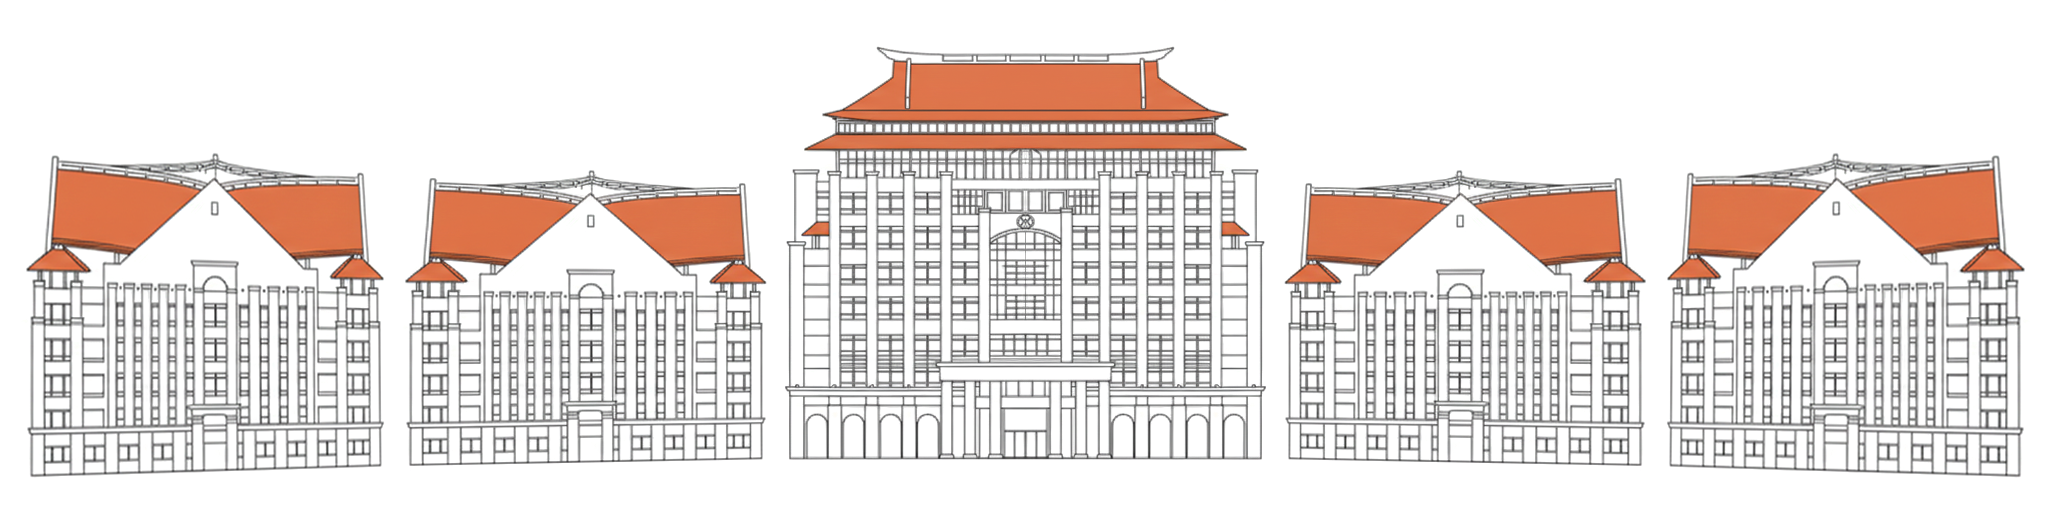
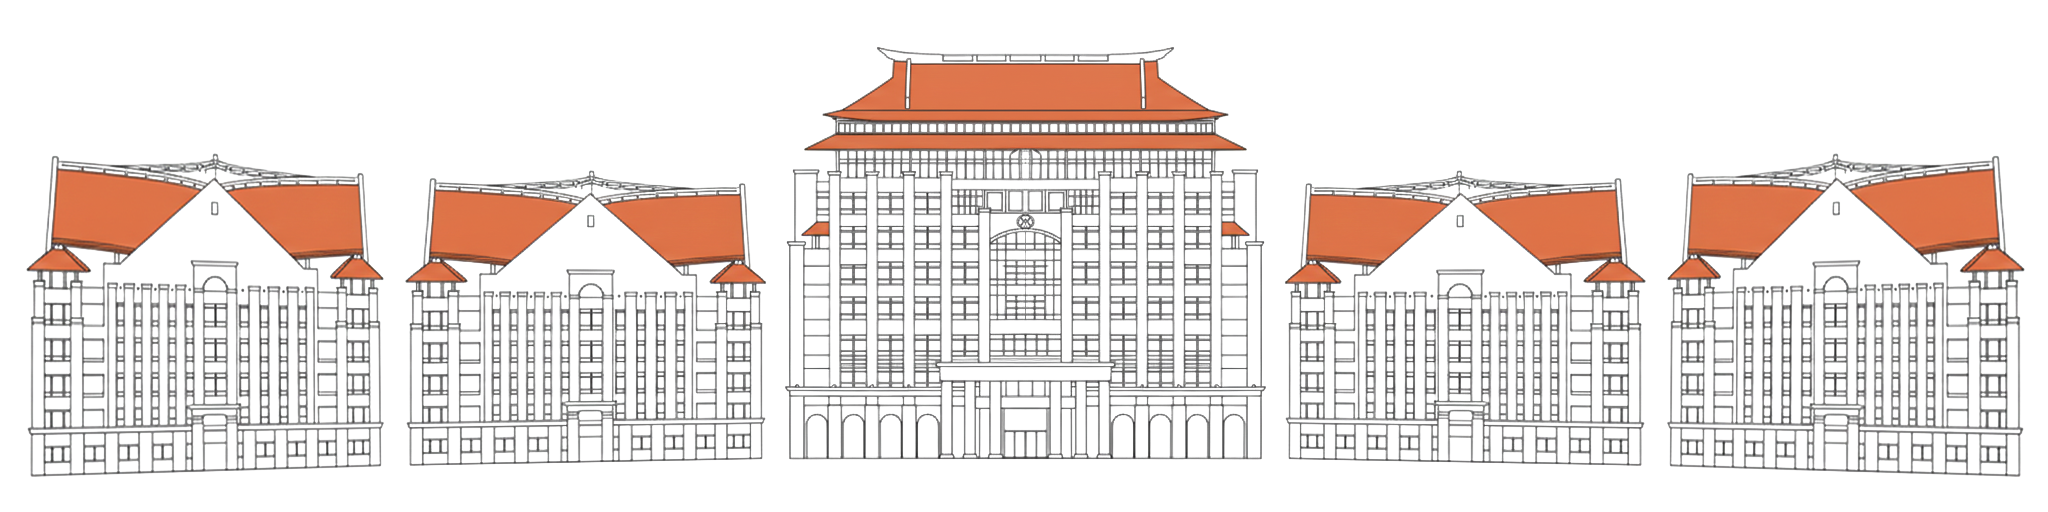
MkDocs update navigation structure and add preview for cpp file

diff --git a/gen_cpp_pages.py b/gen_cpp_pages.py
@@ -1,0 +1,89 @@
+import mkdocs_gen_files
+from pathlib import Path
+from urllib.parse import quote
+from collections import defaultdict
+import zipfile
+import io
+
+SCAN_DIRS = [
+    Path("docs/note"),
+    Path("docs/template"),
+]
+
+
+def build_tree(file_list, base):
+    tree = defaultdict(list)
+    loose = []
+    for f in file_list:
+        rel = f.relative_to(base)
+        if len(rel.parts) == 1:
+            loose.append(f)
+        else:
+            subdir = rel.parts[0]
+            tree[subdir].append(f)
+    return tree, loose
+
+
+def write_tree(f, file_list, base, author_base, depth=0):
+    tree, loose = build_tree(file_list, base)
+    for cpp_file in loose:
+        rel = cpp_file.relative_to(author_base)
+        md_rel = str(rel.with_suffix(".md")).replace("\\", "/")
+        f.write(f"- [{cpp_file.stem}]({md_rel})\n")
+    for subdir, sub_files in sorted(tree.items()):
+        heading = "#" * (depth + 2)
+        f.write(f"\n{heading} {subdir}\n\n")
+        write_tree(f, sub_files, base / subdir, author_base, depth + 1)
+
+
+for scan_root in SCAN_DIRS:
+    section = scan_root.name
+
+    authors = defaultdict(list)
+    for cpp_file in sorted(scan_root.rglob("*.cpp")):
+        rel = cpp_file.relative_to(scan_root)
+        if len(rel.parts) < 2:
+            continue
+        author = rel.parts[0]
+        authors[author].append(cpp_file)
+
+    for author, files in sorted(authors.items()):
+        for cpp_file in files:
+            rel = cpp_file.relative_to(scan_root)
+            md_path = Path(section) / rel.with_suffix(".md")
+            title = str(rel.with_suffix("")).replace("\\", "/")
+            content = cpp_file.read_text(encoding="utf-8")
+            cpp_filename = cpp_file.name
+
+            download_path = Path(section) / rel
+            with mkdocs_gen_files.open(download_path, "wb") as f:
+                f.write(cpp_file.read_bytes())
+
+            cpp_url = f"/{section}/" + "/".join(quote(p) for p in rel.parts)
+            with mkdocs_gen_files.open(md_path, "w", encoding="utf-8") as f:
+                f.write(f"# {title}\n\n")
+                f.write(f'<a href="{cpp_url}" download="{cpp_filename}" class="md-button md-button--primary">')
+                f.write(f"⬇ 下载 {cpp_filename}</a>\n\n")
+                f.write("```cpp\n")
+                f.write(content)
+                if not content.endswith("\n"):
+                    f.write("\n")
+                f.write("```\n")
+
+        zip_filename = f"{author}-{section}.zip"
+        zip_buffer = io.BytesIO()
+        with zipfile.ZipFile(zip_buffer, "w", zipfile.ZIP_DEFLATED) as zf:
+            for cpp_file in files:
+                rel = cpp_file.relative_to(scan_root / author)
+                zf.writestr(str(rel).replace("\\", "/"), cpp_file.read_bytes())
+
+        zip_path = Path(section) / author / zip_filename
+        with mkdocs_gen_files.open(zip_path, "wb") as f:
+            f.write(zip_buffer.getvalue())
+
+        index_path = Path(section) / author / "index.md"
+        with mkdocs_gen_files.open(index_path, "w", encoding="utf-8") as f:
+            f.write(f"# {author}\n\n")
+            f.write(f'<a href="{zip_filename}" download class="md-button md-button--primary">')
+            f.write(f"⬇ 下载全部 ({zip_filename})</a>\n\n")
+            write_tree(f, files, scan_root / author, scan_root / author)

diff --git a/docs/contributing.md b/docs/contributing.md
@@ -96,6 +96,8 @@ git push origin main
 
     主要记录一些不属于以上分类的内容。
 
+笔记 `note/` 和模板 `template/` 分类支持 `.cpp` 文件自动预览：将 `.cpp` 文件放入 `docs/note/作者/` 或 `docs/template/作者/` 目录下，构建时会自动生成带语法高亮的预览页面，无需手动编写 `.md` 文件。注意：新增目录需作者在 `mkdocs.yml` 的 `nav` 中添加对应导航地址。
+
 ## 提交 commit 规范
 
 提交 commit 前确保代码或文档已经过测试和验证，能够正常运行。
